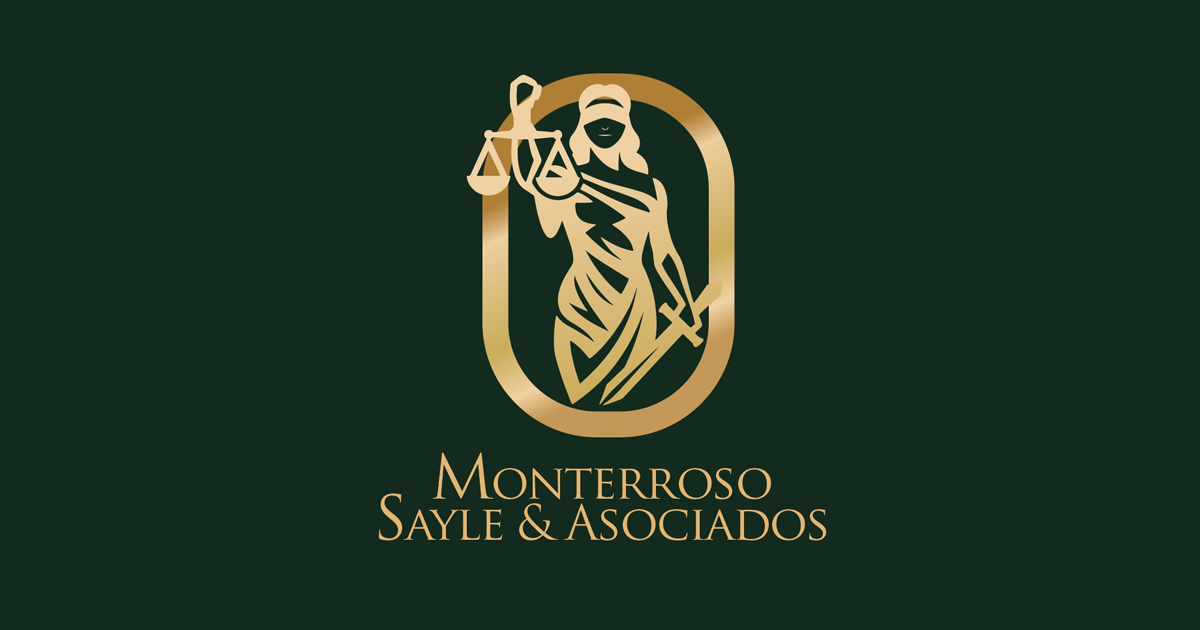
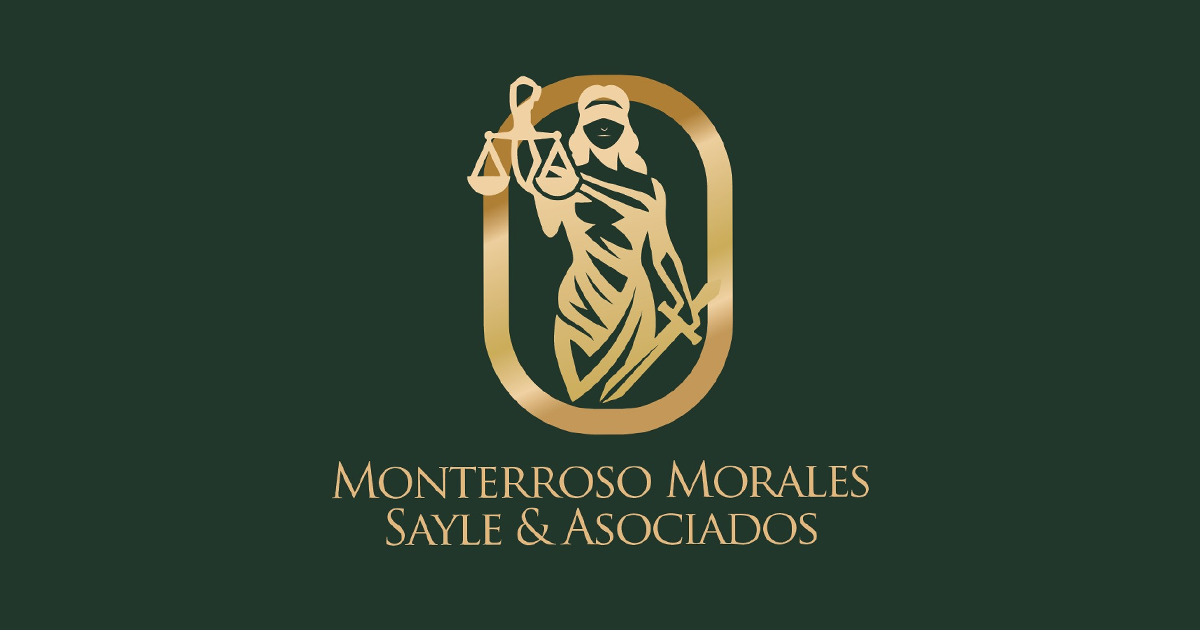
cambios

diff --git a/index.html b/index.html
@@ -3,15 +3,16 @@
 <head>
   <meta charset="UTF-8" />
   <meta name="viewport" content="width=device-width, initial-scale=1.0" />
-  <title>Monterroso Sayle & Asociados - Protegemos tus derechos en Guatemala</title>
+  <title>Monterroso Morales Sayle & Asociados - Protegemos tus derechos en Guatemala</title>
   <!-- OPEN GRAPH PARA COMPARTIR EN REDES -->
-  <meta property="og:title" content=" Monterroso Sayle & Asociados">
+  <meta property="og:title" content=" Monterroso Morales Sayle & Asociados">
   <meta property="og:description" content="Servicios legales de alta calidad, defensa del contribuyente, propiedad intelectual y más.">
   <meta property="og:image" content="https://mosaabogadosgt.com/assets/img/1200x630-index.png">
   <meta property="og:url" content="https://mosaabogadosgt.com/">
   <meta property="og:type" content="website">
   <!-- Google Fonts -->
   <link href="https://fonts.googleapis.com/css2?family=Playfair+Display:wght@400;600;700&family=Poppins:wght@300;400;500;600&display=swap" rel="stylesheet" />
+<link rel="stylesheet" href="https://cdnjs.cloudflare.com/ajax/libs/font-awesome/6.5.0/css/all.min.css" integrity="sha512-somehash" crossorigin="anonymous" referrerpolicy="no-referrer" />
 
   <style>
     :root {
@@ -53,7 +54,7 @@
       top: 0;
       left: 0;
       width: 100%;
-      background: #132b1e;
+      background: #21372b;
       backdrop-filter: blur(8px);
       border-bottom: 1px solid rgba(197, 163, 105, 0.15);
       z-index: 999;
@@ -70,7 +71,7 @@
       align-items: center;
       justify-content: space-between;
       padding: 1rem 0;
-      background-color: #132b1e;
+      background-color: #21372b;
     }
 
     .nav__brand {
@@ -197,7 +198,7 @@
 .about {
   text-align: center;
   padding: 2rem;
-  background-color: #132b1e;
+  background-color: #21372b;
 }
 .about__logo {
   display: block;
@@ -429,6 +430,35 @@
         display: flex;
       }
     }
+    /* Botón WhatsApp en navbar */
+.btn-whatsapp {
+  background-color: #ffffff;
+  color: #25D366;
+  padding: 0.2rem 0.5rem;
+  border-radius: 20px;
+  font-weight: 600;
+  font-size: 0.9rem;
+  display: flex;
+  align-items: center;
+  /* gap: 0.5rem; */
+  transition: transform 0.2s ease, background-color 0.3s ease, box-shadow 0.3s ease;
+}
+
+.btn-whatsapp i {
+  font-size: 1rem;
+}
+
+/* Animación de pulsación */
+.btn-whatsapp:active {
+  transform: scale(0.95);
+}
+
+/* Hover accesible */
+.btn-whatsapp:hover {
+  background-color: #f0f0f0;
+  box-shadow: 0 2px 8px rgba(0,0,0,0.15);
+}
+
   </style>
 </head>
 <body>
@@ -438,14 +468,24 @@
       <a href="#" class="nav__brand">
         <!-- You can replace the placeholder with your SVG / PNG logo  -->
          <img src="assets/img/512x512-solo-logo.png" alt="" width="40" height="40">
-        <span> Monterroso Sayle & Asociados</span>
+        <span> Monterroso Morales Sayle & Asociados</span>
       </a>
       <ul class="nav__links" id="navLinks">
         <li><a href="#">Inicio</a></li>
         <li><a href="#sobre">Sobre Nosotros</a></li>
         <li><a href="#servicios">Servicios</a></li>
-        <li><a href="#articulos">Artículos</a></li>
-        <li><a href="#contacto">Contacto</a></li>
+<li>Tel: 23380330</li>
+
+        <!-- <li><a href="#articulos">Artículos</a></li> -->
+<li>
+  <a href="https://api.whatsapp.com/send?phone=50242151305" 
+     target="_blank" 
+     rel="noopener" 
+     class="btn-whatsapp">
+    <i class="fab fa-whatsapp"></i> WhatsApp
+  </a>
+</li>
+
       </ul>
       <div class="hamburger" id="hamburger">
         <span></span>
@@ -480,10 +520,11 @@
   <img src="assets/img/512x512-logo.png" alt="Logo" width="200" height="200" class="about__logo">
   <h2 class="about__title">¿Quiénes Somos?</h2>
   <p class="about__text">
-    En Monterroso Sayle & Asociados contamos con más de 25 años de
+    En Monterroso Morales Sayle & Asociados contamos con más de 25 años de
     experiencia brindando asesoría legal integral en Guatemala. Nuestro
     compromiso es ofrecer un servicio ético y profesional a cada cliente.
   </p>
+  <p class="about__text">Estamos ubicados en 12 calle 1-25 zona 10 Edificio Géminis, 3 nivel oficina 312</p>
 </section>
 
   <!-- Services -->
@@ -601,7 +642,8 @@
 
   <!-- Footer -->
   <footer id="pie">
-    &copy; 2025  Monterroso Sayle & Asociados. Todos los derechos reservados.
+    &copy; 2025  Monterroso Morales Sayle & Asociados. Todos los derechos reservados. <br>
+    12 calle 1-25 zona 10 Edificio Géminis, 3 nivel oficina 312
     <p>Desarrollado por <a href="https://oscarleon.app" target="_blank" rel="noopener">OSCARLEON</a></p>
   </footer>
 

diff --git a/card-presentation.html b/card-presentation.html
@@ -4,7 +4,7 @@
   <!-- METADATOS BÁSICOS -->
   <meta charset="UTF-8">
   <meta name="viewport" content="width=device-width, initial-scale=1.0">
-  <title>Monterroso Sayle & Asociados - Protegemos tus derechos en Guatemala</title>
+  <title>Monterroso Morales Sayle & Asociados - Protegemos tus derechos en Guatemala</title>
   <meta name="description" content="Firma de abogadas con más de 25 años de experiencia brindando asesoría legal ética y profesional en Guatemala.">
 
   <!-- OPEN GRAPH PARA COMPARTIR EN REDES -->
@@ -22,7 +22,7 @@
     body {
       margin: 0;
       font-family: 'Segoe UI', sans-serif;
-      background-color: #132b1e;
+      background-color: #21372b;
       color: #fff;
     }
 
@@ -107,7 +107,7 @@
       margin-left: 20px;
       border-radius: 6px;
       background-color: #c49a5a;
-      color: #0e2216;
+      color: #21372b;
       font-weight: bold;
       text-decoration: none;
       display: inline-flex;
@@ -127,7 +127,7 @@
 
     .button_gray {
       background-color: #fff;
-      color: #0e2216;
+      color: #21372b;
     }
 
     .filters_content {
@@ -233,7 +233,7 @@
         <img src="assets/img/512x512-solo-logo.png" alt="Logo Bufete">
       </div>
     </div>
-    <h2 class="profile_name">Monterroso Sayle & Asociados</h2>
+    <h2 class="profile_name">Monterroso Morales Sayle & Asociados</h2>
     <h3 class="profile_profession">Firma jurídica con 25 años de experiencia por alianza estratégica con la finalidad de brindar servicios jurídicos de excelencia en diferentes áreas del Derecho.</h3>
 
     <ul class="profile_social">
@@ -329,7 +329,7 @@
   </main>
 
   <footer class="footer">
-    &copy; 2025 Monterroso Sayle & Asociados. Todos los derechos reservados.
+    &copy; 2025 Monterroso Morales Sayle & Asociados. Todos los derechos reservados.
     <p>Desarrollado por <a href="https://oscarleon.app" target="_blank" rel="noopener" style="color: #b5894f; text-decoration: none;">OSCARLEON</a></p>
   </footer>
 
